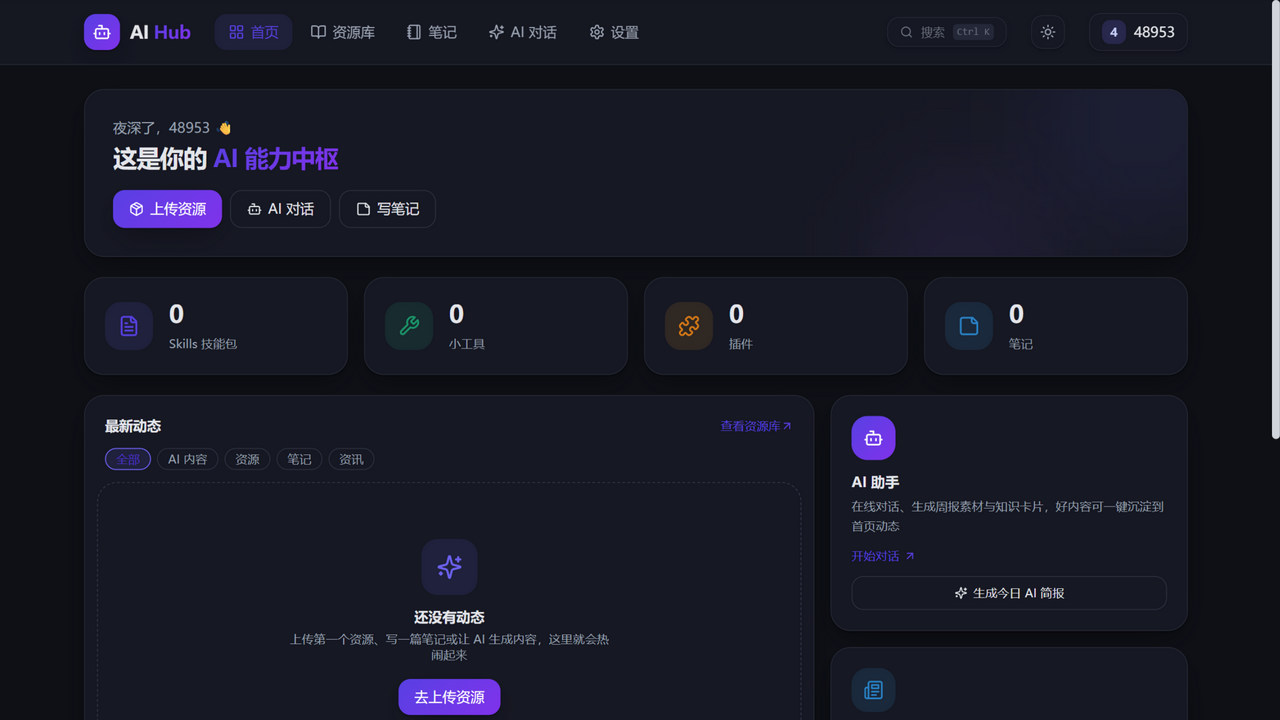
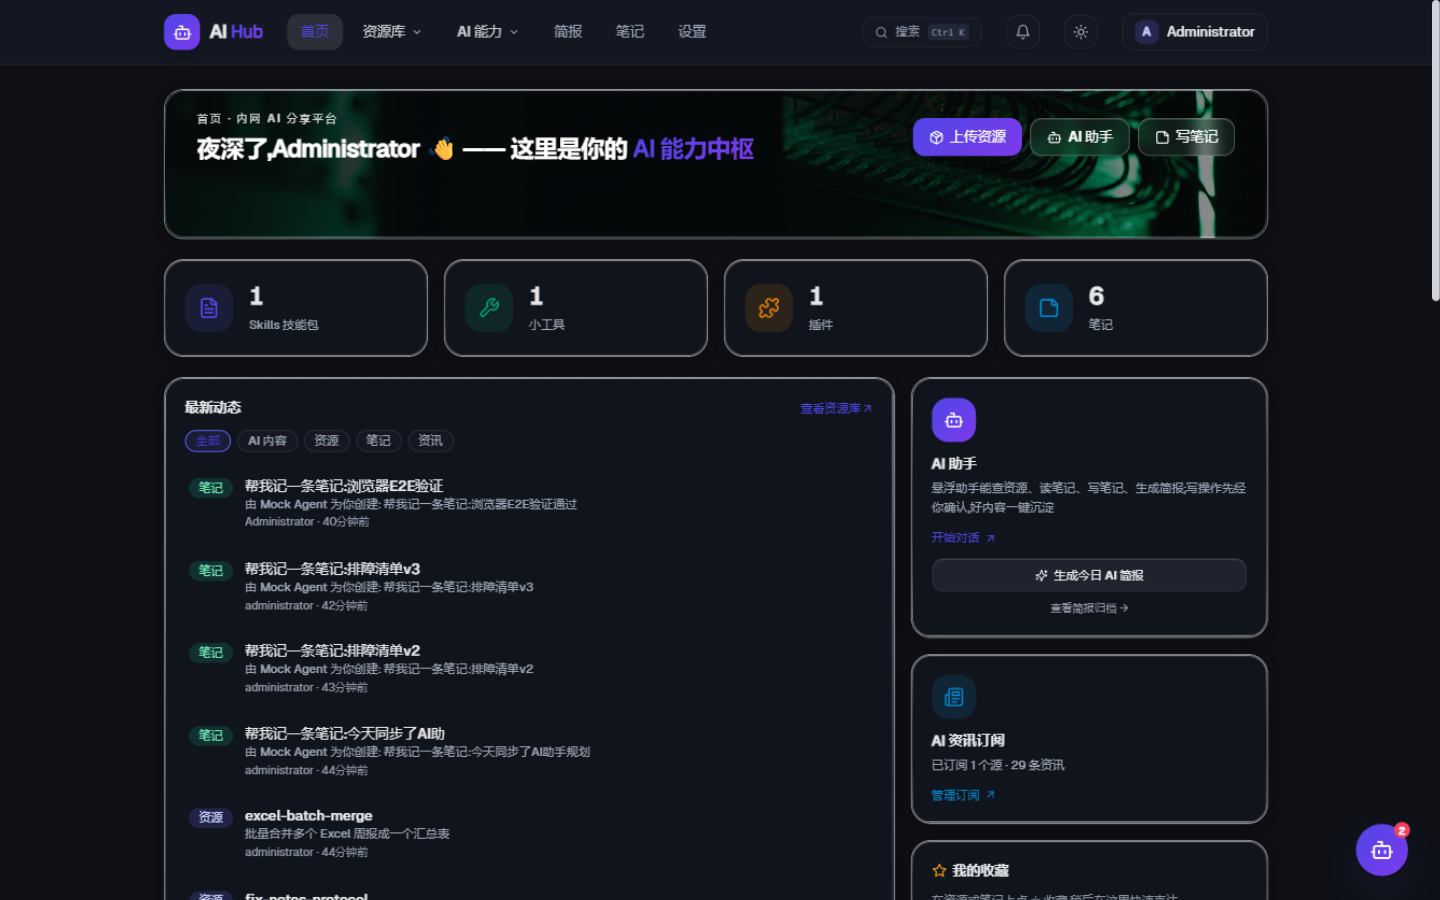
docs: v0.9.8 界面截图更新(含悬浮助手)

diff --git a/README.md b/README.md
@@ -14,6 +14,10 @@
 |---|---|
 | ![明亮](docs/screenshots/dashboard-light.png) | ![深色](docs/screenshots/dashboard-dark.png) |
 
+| 悬浮 AI 助手（Agent 对话 + 任务卡） |
+|---|
+| ![AI 助手](docs/screenshots/assistant-dark.png) |
+
 
 ## 功能总览
 
